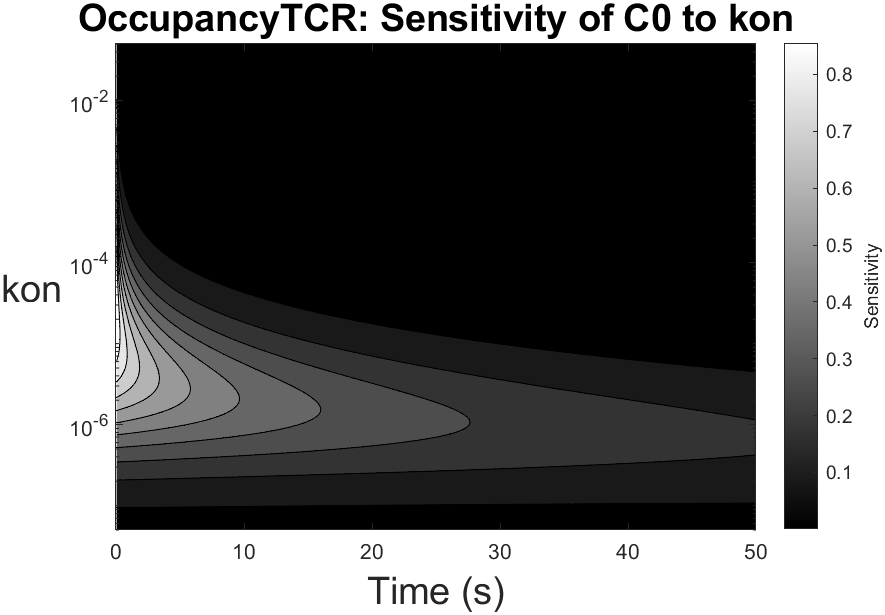
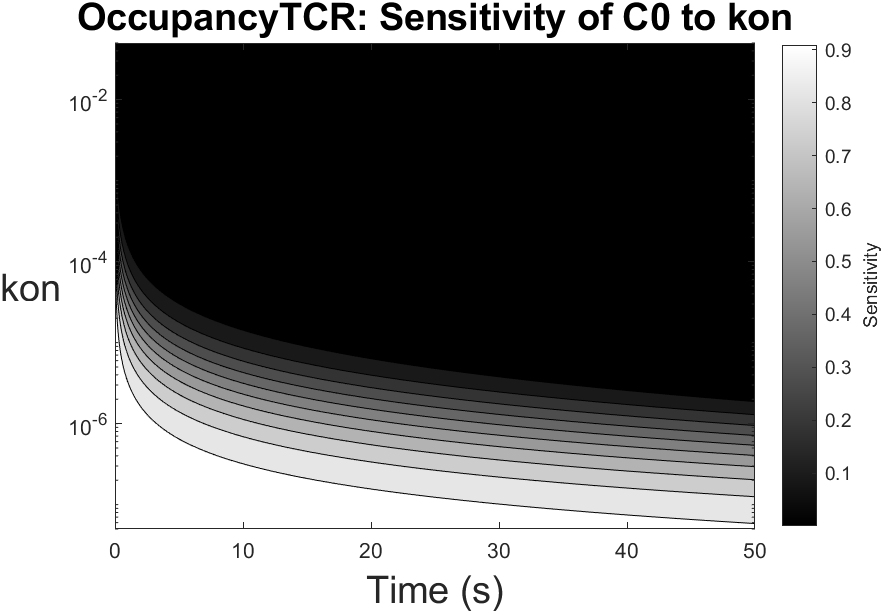
Testing input

diff --git a/v.6/models/OccupancyTCR.m b/v.6/models/OccupancyTCR.m
@@ -3,7 +3,7 @@ function dx = OccupancyTCR(t, x, p, tspan, u1)
 
     u = inputSignal(t, tspan, u1);
 
-    dx(1) = p(1) * x(2) * x(3) - p(2) * x(1) + u;  % C0
-    dx(2) = -p(1) * x(2) * x(3) + p(2) * x(1); % P
+    dx(1) = p(1) * x(2) * x(3) - p(2) * x(1) * u;  % C0
+    dx(2) = -p(1) * x(2) * x(3)*u + p(2) * x(1); % P
     dx(3) = -p(1) * x(3) * x(3) + p(2) * x(1); % T
 end
